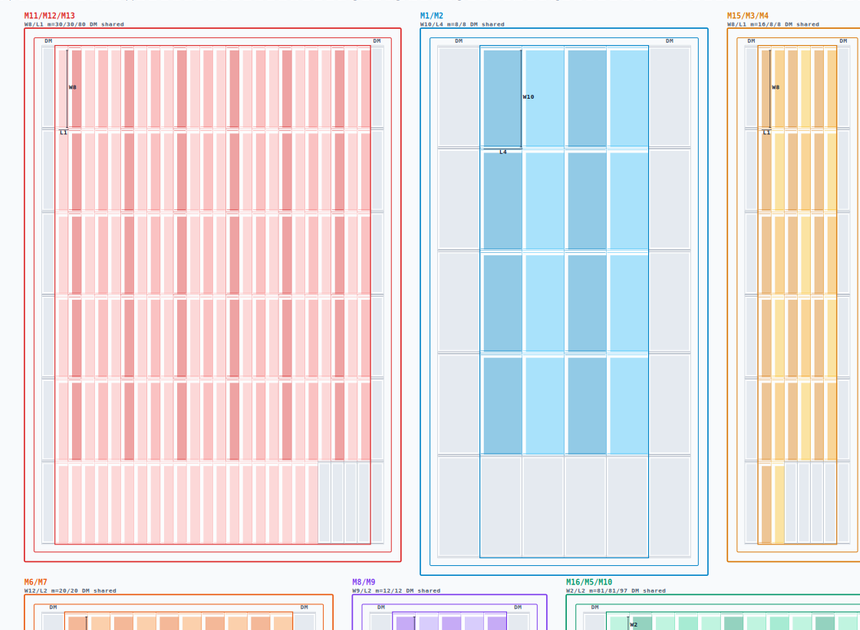
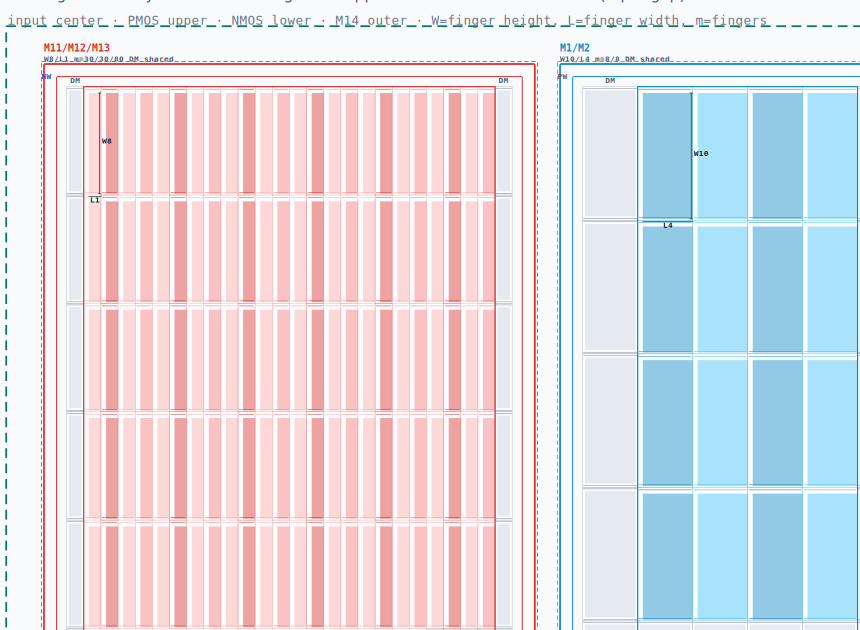
feat: add NW/PW, R/C in DNW gap, effective-area metrics

diff --git a/examples/classa_opamp/make_white_line.py b/examples/classa_opamp/make_white_line.py
@@ -135,6 +135,13 @@ def draw_group(g):
     # ring
     rect(gx, gy, ow, oh, fill="none", stroke=color, sw=1.2, rx=1)
     rect(gx+RING_W, gy+RING_W, ow-2*RING_W, oh-2*RING_W, fill="none", stroke=color, sw=0.7, rx=1)
+    # simplified well boundary (NW for PMOS, PW for NMOS); not a DRC drawing
+    if g in ("MIRROR_P", "LOAD_P", "FOLD_P"):
+        rect(gx-0.2, gy-0.2, ow+0.4, oh+0.4, fill="none", stroke="#1d4ed8", sw=0.5, dash="3 2")
+        txt_um(gx-0.2, gy+1.2, "NW", 5.5, "#1d4ed8", 700)
+    else:
+        rect(gx-0.2, gy-0.2, ow+0.4, oh+0.4, fill="none", stroke="#64748b", sw=0.5, dash="3 2")
+        txt_um(gx-0.2, gy+1.2, "PW", 5.5, "#475569", 700)
     cx = gx + RING_W + RING_GAP
     cy = gy + RING_W + RING_GAP
     # shared dummy columns
@@ -228,6 +235,18 @@ for g in ORDER:
 txt(lx, ry+6, "DM = shared dummy column (both ends)", 6.5, "#64748b", family="'DejaVu Sans Mono',monospace")
 txt(lx, ry+20, "ring 1.0 µm / gap 1.5 µm (edu)", 7, "#64748b", family="'DejaVu Sans Mono',monospace")
 txt(lx, ry+34, "M13 PMOS current source · M14 output", 7, "#64748b", family="'DejaVu Sans Mono',monospace")
+
+# Effective area: inside ring + R/C; max area: DNW1 + DNW2 outer area
+ring_inner = sum(max(0, GD[g][0]-2*RING_W) * max(0, GD[g][1]-2*RING_W) for g in GROUPS)
+rc_area = 5*10 + 4*(2*3)
+dnw1_area = (row1_right+3-(-3))*(step_y-(-3)) + (row2_right+3-(-3))*(main_h+3-step_y)
+dnw2_area = (GD["OUT"][0]+6)*(GD["OUT"][1]+6)
+eff = ring_inner + rc_area
+util_sum = eff / (dnw1_area + dnw2_area)
+util_bbox = eff / (((OUT_X+GD["OUT"][0]+3)-(-3))*((max(main_h, GD["OUT"][1])+3)-(-3)))
+txt(lx,ry+60,f"effective area = ring inner + R/C = {eff:.0f} um2",6.0,"#475569",family="'DejaVu Sans Mono',monospace")
+txt(lx,ry+72,f"max DNW area = DNW1+DNW2 = {dnw1_area+dnw2_area:.0f} um2",6.0,"#475569",family="'DejaVu Sans Mono',monospace")
+txt(lx,ry+84,f"utilization = {util_sum*100:.1f}% (sum), {util_bbox*100:.1f}% (bbox)",6.0,"#475569",family="'DejaVu Sans Mono',monospace")
 
 add('</svg>')
 Path('examples/classa_opamp/white-line.svg').write_text('\n'.join(out), encoding='utf-8')

diff --git a/examples/classa_opamp/README.md b/examples/classa_opamp/README.md
@@ -37,23 +37,34 @@ All dimensions are **W/L in µm**; `m` is the parallel multiplicity; total W = W
 
 ![Compact white-line](white-line.png)
 
-This version uses **flexible array shapes** instead of fixed row counts:
+This version uses flexible array rows and a compact two-row main placement:
 
-- arrays are reshaped to make the two main rows nearly equal height;
+- rows are chosen to make the two main rows nearly equal height;
 - current rows: LOAD 6, FOLD 4, MIRROR_N 5, IN 5, MIRROR_P 6, BIAS 20, OUT 6;
-- 2/4/6-row shapes are preferred, but a group can use another row count when
-  that removes a large height mismatch;
-- gate pitch is now **L + 0.36 µm** for `sd_mode=shared`;
-- ring gap is **0.8 µm**, group gap is **2 µm**;
+- gate pitch is **L + 0.36 µm** for `sd_mode=shared`;
+- ring gap **0.8 µm**, group gap **2 µm**;
 - dummies use the same finger geometry as active devices; only the external
   `DM` label differs;
 - no `FILL DM` blocks and no fake dummy fill;
-- only the real edge dummies + BIAS_N spare cell are dummy;
 - DNW1 is a stepped outline; M14 is in DNW2 at the outer right, 8 µm away;
-- input pair in the center row; PMOS upper, NMOS lower.
+- input pair in the center row; PMOS upper, NMOS lower;
+- C1/R1 are placed **between DNW1 and DNW2**, and their area is counted.
 
-Approximate main-DNW fill is now about **89%**; overall bbox is still limited by
-the required 8 µm DNW gap and the outer output block.
+Approximate area accounting (inside-ring effective area + R/C, divided by the
+DNW1+DNW2 outer area):
+
+```text
+ring-inner effective area ≈ 11,690 µm²
+C1 + R1                    ≈     74 µm²
+effective total            ≈ 11,764 µm²
+DNW1 + DNW2 outer          ≈ 15,965 µm²
+utilization                ≈ 73.7%
+```
+
+If the denominator is the total outer bounding box including the 8 µm DNW gap and
+C1/R1, utilization is about **67.7%**.
+
+If “inside ring” includes the ring metal itself, the number is about **81.6%**.
 
 Detail crop:
 
